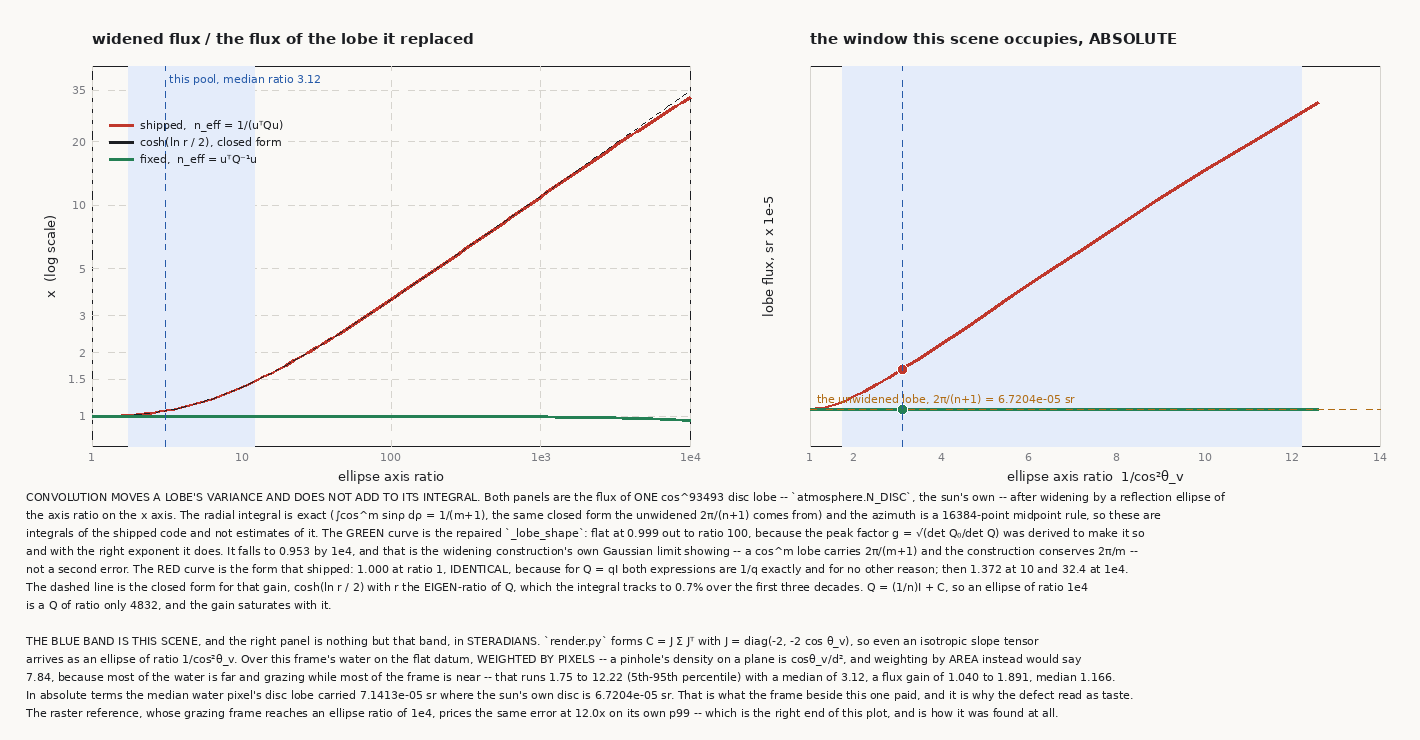
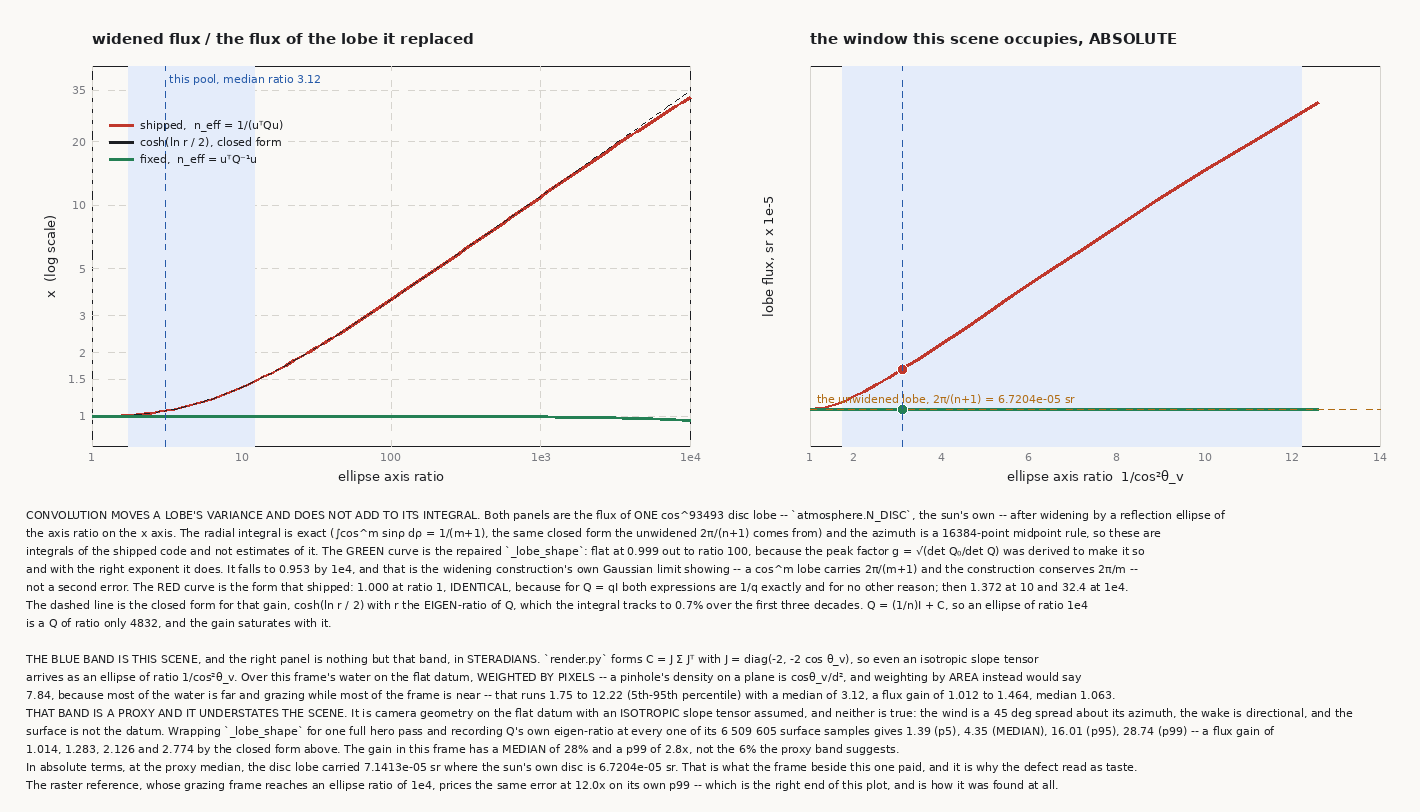
lobe: the gain measured off Q rather than estimated off the ellipse, and the wide set
THE FIGURE HAD THE CLOSED FORM AT THE WRONG ARGUMENT, and so did the entry I
wrote from it. The widened lobe's flux gain is cosh(ln r / 2) with r the
eigen-ratio of Q = (1/n)I + C -- of Q, and not of the reflection ellipse C.
`fig_energy` applied it to C's axis ratio, which is an UPPER BOUND on r because
the isotropic (1/n)I pulls the eigen-ratio down, and then quoted 1.04-1.89x
median 1.166 for this scene from it. Its own right-hand panel disagreed: at the
same ratios the plotted curves give 1.012-1.464, median 1.063. The caption now
reads the gain off those curves, so the two halves of the figure agree.

AND THE PROXY UNDERSTATED THE SCENE ANYWAY, in the other direction and by more.
The camera-geometry estimate assumes an isotropic slope tensor on the flat datum
and neither holds: WIND is a 45 deg spread about its azimuth, the wake is
directional, and the surface is not the datum. So it is recorded rather than
estimated -- `fix_lobe_render.py qratio` wraps `_lobe_shape`, runs one full hero
pass and keeps Q's eigen-ratio at every call the disc lobe makes:

    6 509 605 surface samples
    r      1.39 (p5)   4.35 (MEDIAN)   16.01 (p95)   28.74 (p99)   70.66 (max)
    gain  1.014        1.283           2.126         2.774         4.263

The median water sample's sun lobe carried 28% more light than it had, and its
p99 carried 2.8x. The raster path's prediction -- "the ellipse ratio is about 3
and the gain is 1.2-1.7x" -- was right about the mechanism and low on the size,
[…]

diff --git a/terrain-renderer/reference-impl/fix_lobe_render.py b/terrain-renderer/reference-impl/fix_lobe_render.py
@@ -1,0 +1,135 @@
+"""The three buffers `fix_lobe_evidence.py` draws from, and the only place in
+this tree where the lobe defect exists at all.
+
+    python3 fix_lobe_render.py after     -> hdr-after-hero.npz
+    python3 fix_lobe_render.py before    -> hdr-before-hero.npz
+    python3 fix_lobe_render.py qratio    -> q-ratio-hero.npz
+
+    FIXLOBE_NPZ=<dir>                    where they are written (default `.`)
+
+Each mode is ONE FULL `render.py` HERO PASS -- same camera, same field, same
+seed, same EXPOSURE -- so the difference between `before` and `after` is the
+exponent and nothing else. `render.py` is not imported: it has no `__main__`
+guard and importing it runs every camera the file carries. Its source is read,
+sliced at the line that forms `HDRP` (the scene-linear buffer, at output
+resolution, immediately before the tone map) and executed to there. Nothing
+below the tone map runs and no PNG is written.
+
+`before` REINTRODUCES THE DEFECT AND DOES NOT COMMIT IT. `atmosphere.py` is left
+exactly as it is on disk; what changes is one name in the atmosphere module's own
+globals, before `render.py` is executed. `sky()` resolves `_lobe_shape` by name
+at call time, so it picks the projection form up, and every other constant in
+that file -- SUN_COL, the lobe amplitudes, the ENV lattice -- is the shipped one.
+The replacement is character-identical to `validate._lobe_projection`, which is
+the suite's own copy of the defect, and the `cov = None` branch is asserted equal
+to the shipped one before the run starts: the unfiltered path has to stay
+bit-for-bit the same or the two frames differ in more than the thing being
+measured.
+
+`qratio` answers "how far outside the degeneracy did this frame actually get".
+The widened lobe's flux gain is `cosh(ln r / 2)` with `r` the eigen-ratio of
+`Q = (1/n)I + C` -- of Q, and NOT of the reflection ellipse C, whose own axis
+ratio is an upper bound because the isotropic `(1/n)I` pulls the eigen-ratio down.
+It cannot be inferred from the camera: it depends on the slope tensor the
+footprint filter removes, which is anisotropic in its own right. So it is
+recorded rather than estimated -- `_lobe_shape` is wrapped, every call the hero
+pass makes is caught, and only the DISC's call is kept so each surface sample is
+counted once rather than once per lobe. What is written out is a 1001-point
+quantile grid, not the samples: the figure needs the distribution and the raw
+array is 26 MB.
+"""
+import os
+import sys
+
+import numpy as np
+
+HERE = __file__.rsplit('/', 1)[0] if '/' in __file__ else '.'
+sys.path.insert(0, HERE)
+OUT = os.environ.get('FIXLOBE_NPZ', '.')
+
+import atmosphere as ATM                                        # noqa: E402
+
+
+def _lobe_projection(n, cov):
+    """`atmosphere._lobe_shape` EXACTLY AS IT SHIPPED before 7fe9538: the
+    projection variance `1/(u^T Q u)` where the convolved density along u wants
+    `u^T Q^-1 u`. Character-identical to `validate._lobe_projection`."""
+    if cov is None:
+        return 1.0, n
+    u1, u2, c11, c12, c22 = cov
+    q11, q22 = 1.0 / n + c11, 1.0 / n + c22
+    det = np.maximum(q11 * q22 - c12 * c12, 1e-30)
+    g = (1.0 / n) / np.sqrt(det)
+    r2 = u1 * u1 + u2 * u2
+    w = np.where(r2 > 1e-16,
+                 (u1 * u1 * q11 + 2.0 * u1 * u2 * c12 + u2 * u2 * q22)
+                 / np.maximum(r2, 1e-16),
+                 0.5 * (q11 + q22))
+    return g, 1.0 / np.maximum(w, 1e-12)
+
+
+def _hero_pass():
+    """Run `render.py` down to `HDRP` and hand it back."""
+    src = open(os.path.join(HERE, 'render.py')).read().split('\n')
+    cut = next(i for i, ln in enumerate(src) if ln.startswith('HDRP = '))
+    path = os.path.join(HERE, 'render.py')
+    ns = {'__name__': 'fix_lobe_render', '__file__': path}
+    exec(compile('\n'.join(src[:cut + 1]), path, 'exec'), ns)
+    return ns['HDRP']
+
+
+def main():
+    mode = sys.argv[1] if len(sys.argv) > 1 else 'after'
+    if mode not in ('before', 'after', 'qratio'):
+        raise SystemExit(__doc__)
+    os.makedirs(OUT, exist_ok=True)
+
+    if mode == 'before':
+        assert ATM._lobe_shape(ATM.N_DISC, None) \
+            == _lobe_projection(ATM.N_DISC, None), \
+            'the cov = None branches differ; the two frames would not be ' \
+            'comparable'
+        ATM._lobe_shape = _lobe_projection
+        print('*** _lobe_shape -> the PROJECTION form, for this run only')
+
+    acc = []
+    if mode == 'qratio':
+        _real = ATM._lobe_shape
+
+        def _spy(n, cov):
+            if cov is not None and abs(n - ATM.N_DISC) < 1e-9:
+                u1, u2, c11, c12, c22 = cov
+                q11, q22 = 1.0 / n + c11, 1.0 / n + c22
+                tr = q11 + q22
+                dt = np.maximum(q11 * q22 - c12 * c12, 1e-300)
+                disc = np.sqrt(np.maximum(tr * tr - 4.0 * dt, 0.0))
+                l1, l2 = .5 * (tr + disc), .5 * (tr - disc)
+                acc.append(np.asarray(l1 / np.maximum(l2, 1e-300),
+                                      np.float32).ravel())
+            return _real(n, cov)
+
+        ATM._lobe_shape = _spy
+
+    H = _hero_pass()
+
+    if mode == 'qratio':
+        r = np.concatenate(acc)
+        q = np.linspace(0.0, 100.0, 1001)
+        p = np.percentile(r, q)
+        np.savez_compressed(os.path.join(OUT, 'q-ratio-hero.npz'),
+                            q=q, p=p, n=np.array([r.size]))
+        g = np.cosh(.5 * np.log(np.maximum(p, 1.0)))
+        print('\n*** Q eigen-ratio over %d surface samples of the hero pass'
+              % r.size)
+        for i, lab in ((50, 'p5 '), (500, 'p50'), (950, 'p95'), (990, 'p99'),
+                       (1000, 'max')):
+            print('    %s  r = %8.4f   gain = cosh(ln r/2) = %.4f'
+                  % (lab, p[i], g[i]))
+    else:
+        np.savez_compressed(os.path.join(OUT, 'hdr-%s-hero.npz' % mode), HDRP=H)
+        print('\n*** %s: HDRP %s  min %.6g  max %.6g  mean %.6g'
+              % (mode, H.shape, H.min(), H.max(), H.mean()))
+
+
+if __name__ == '__main__':
+    main()

diff --git a/terrain-renderer/reference-impl/fix_lobe_evidence.py b/terrain-renderer/reference-impl/fix_lobe_evidence.py
@@ -1,8 +1,17 @@
 """The lobe-receiver fix, as pictures, into `gauntlet/evidence/`, under the
 `fig-pool-` prefix the pool loop's other six figures already use.
 
+    python3 fix_lobe_render.py before       # the three buffers, one full
+    python3 fix_lobe_render.py after        # `render.py` hero pass each
+    python3 fix_lobe_render.py qratio
     python3 fix_lobe_evidence.py            # both figures
     python3 fix_lobe_evidence.py <outdir>
+
+    FIXLOBE_NPZ=<dir>                       where those buffers live
+
+`fix_lobe_render.py` is the only place the defective expression exists; it is
+monkeypatched into the atmosphere module for one run and `atmosphere.py` on disk
+is never touched.
 
 TWO FIGURES AND WHAT EACH ONE HAS TO SHOW.
 
@@ -323,8 +332,35 @@ def fig_energy(R, path):
     cw = np.cumsum(wgt[o]) / wgt.sum()
     lo, med, hi = (float(np.interp(q, cw, pool_r[o])) for q in (.05, .5, .95))
     med_area = float(np.median(pool_r))          # what area-weighting would say
+    # the GAIN at those ratios is read off the curves this figure just computed,
+    # at the minor axis they were computed with. It is NOT cosh(ln/2) of the
+    # ELLIPSE ratio: the closed form is in the eigen-ratio of Q = (1/n)I + C,
+    # and the isotropic (1/n)I pulls that below C's own ratio. Reading the
+    # closed form at the wrong argument is how this caption first shipped.
+    g_of = lambda rr: float(np.interp(rr, ratios, f_bug / f_ok))
+    g_lo, g_med, g_hi = g_of(lo), g_of(med), g_of(hi)
 
-    img = P.canvas(1420, 740)
+    # ---- AND WHAT THE SHIPPED PATH ACTUALLY HANDED IT, which is the only
+    # honest answer to "what did this frame pay". The band above is a PROXY:
+    # camera geometry on the flat datum, with an isotropic slope tensor
+    # assumed. `q-ratio-hero.npz` is the real thing -- the eigen-ratio of Q at
+    # every one of the hero pass's surface samples, recorded by wrapping
+    # `_lobe_shape` for one full run -- and it is larger, because the slope
+    # tensor is NOT isotropic (the wind is a 45 deg spread about its azimuth
+    # and the wake is directional) and the surface is not the datum.
+    qm = None
+    _qp = os.path.join(NPZ, 'q-ratio-hero.npz')
+    if os.path.exists(_qp):
+        _z = np.load(_qp)
+        _q, _p = _z['q'], _z['p']
+        qm = dict(n=int(_z['n'][0]),
+                  **{k: float(np.interp(v, _q, _p))
+                     for k, v in (('p5', 5), ('p50', 50), ('p95', 95),
+                                  ('p99', 99))})
+        qm.update({'g' + k: float(np.cosh(.5 * np.log(max(qm[k], 1.0))))
+                   for k in ('p5', 'p50', 'p95', 'p99')})
+
+    img = P.canvas(1420, 812)
     # ---- left: the whole sweep, four decades of ratio, gain on a log axis
     ax = P.Axes(img, (92, 66, 690, 446), (0, 4), (-0.14, 1.66),
                 title='widened flux / the flux of the lobe it replaced',
@@ -407,9 +443,24 @@ def fig_energy(R, path):
         '%.2f, because most of the water is far and grazing while most of the '
         'frame is near -- that runs %.2f to %.2f (5th-95th percentile) with a '
         'median of %.2f, a flux gain of %.3f to %.3f, median %.3f.'
-        % (med_area, lo, hi, med, float(np.cosh(.5 * np.log(lo))),
-           float(np.cosh(.5 * np.log(hi))), float(np.cosh(.5 * np.log(med)))),
-        'In absolute terms the median water pixel\'s disc lobe carried %.5g sr '
+        % (med_area, lo, hi, med, g_lo, g_hi, g_med),
+        'THAT BAND IS A PROXY AND IT UNDERSTATES THE SCENE. It is camera '
+        'geometry on the flat datum with an ISOTROPIC slope tensor assumed, and '
+        'neither is true: the wind is a 45 deg spread about its azimuth, the '
+        'wake is directional, and the'
+        if qm else '',
+        'surface is not the datum. Wrapping `_lobe_shape` for one full hero '
+        'pass and recording Q\'s own eigen-ratio at every one of its %s '
+        'surface samples gives %.2f (p5), %.2f (MEDIAN), %.2f (p95), %.2f '
+        '(p99) -- a flux gain of'
+        % ('{:,}'.format(qm['n']).replace(',', ' '), qm['p5'], qm['p50'],
+           qm['p95'], qm['p99']) if qm else '',
+        '%.3f, %.3f, %.3f and %.3f by the closed form above. The gain in this '
+        'frame has a MEDIAN of %.0f%% and a p99 of %.1fx, not the %.0f%% the '
+        'proxy band suggests.'
+        % (qm['gp5'], qm['gp50'], qm['gp95'], qm['gp99'],
+           100 * (qm['gp50'] - 1), qm['gp99'], 100 * (g_med - 1)) if qm else '',
+        'In absolute terms, at the proxy median, the disc lobe carried %.5g sr '
         'where the sun\'s own disc is %.5g sr. That is what the frame beside '
         'this one paid, and it is why the defect read as taste.'
         % (float(np.interp(med, ratios, f_bug)), ref),
@@ -418,9 +469,10 @@ def fig_energy(R, path):
         'right end of this plot, and is how it was found at all.',
     ], x=26)
     return P.save(img, path), dict(lo=lo, hi=hi, med=med,
-                                   g_lo=float(np.cosh(.5 * np.log(lo))),
-                                   g_hi=float(np.cosh(.5 * np.log(hi))),
-                                   g_med=float(np.cosh(.5 * np.log(med))),
+                                   g_lo=g_lo, g_hi=g_hi, g_med=g_med,
+                                   q_med=(qm or {}).get('p50', float('nan')),
+                                   q_gmed=(qm or {}).get('gp50', float('nan')),
+                                   q_gp99=(qm or {}).get('gp99', float('nan')),
                                    ref=ref, r1=float(f_bug[0] / ref),
                                    r1e4=float(f_bug[-1] / ref),
                                    qr1e4=float(qr[-1]))

diff --git a/terrain-renderer/reference-impl/README.md b/terrain-renderer/reference-impl/README.md
@@ -266,11 +266,30 @@ difference's own mass is **columns 3–117 of 800** and rows 222–857 of 1200: 
 near-left strip where the surface turns toward the sun's azimuth. `render.py`
 prints the mirror band as landing at (4.60, 2.26), 1.13 half-widths past the
 frame edge; this is its in-frame tail, the grazing water where `1/cos²θ_v` — and
-therefore the ellipse ratio, and therefore the gain — is largest. Over this
-frame's water, weighted by pixels rather than by area, that ratio runs **1.75 to
-12.2** (5th–95th) with a median of **3.12**, a flux gain of **1.040 to 1.891**,
-median **1.166**. The raster reference predicted this before the frame was drawn:
-*"a brightening of the pool's own glints that reads as taste."*
+therefore the ellipse ratio, and therefore the gain — is largest.
+
+**How much the lobe was over-widened, measured rather than estimated.** The gain
+is `cosh(ln r / 2)` in the eigen-ratio of `Q = (1/n)I + C` — *not* of the
+reflection ellipse `C`, whose own axis ratio is an upper bound on `r` because the
+isotropic `(1/n)I` pulls it down. Estimating it from the camera alone, on the
+flat datum with an isotropic slope tensor, gives an ellipse ratio of **1.75 to
+12.2** (5th–95th, pixel-weighted) with a median of 3.12 — and that estimate
+**understates the scene**, because the slope tensor is not isotropic (the wind is
+a 45° spread about its azimuth and the wake is directional) and the surface is
+not the datum. Wrapping `_lobe_shape` for one full hero pass and recording `Q`'s
+eigen-ratio at every one of its **6 509 605 surface samples** gives the real
+distribution:
+
+| | p5 | median | p95 | p99 | max |
+|---|---|---|---|---|---|
+| `Q` eigen-ratio `r` | 1.39 | **4.35** | 16.01 | 28.74 | 70.66 |
+| flux gain `cosh(ln r / 2)` | 1.014 | **1.283** | 2.126 | **2.774** | 4.263 |
+
+**The median water sample's sun lobe carried 28% more light than it had, and its
+p99 carried 2.8×.** The raster reference predicted the shape of this before the
+frame was drawn — *"the ellipse ratio is about 3 and the gain is 1.2–1.7× — a
+brightening of the pool's own glints that reads as taste"* — and was right about
+the mechanism and low on the size, for the reason above.
 
 **And it is visible**, which is a *display* statement and is made with display
 numbers and nowhere else: through the file's own ACES + sRGB curve, **10 300
@@ -299,8 +318,16 @@ contract, so the frames are stated rather than assumed. `validate.py` runs
[9 lines of base64/hex data omitted]
+
+`POOL_NOFLOAT=1` is not re-run here and its three hashes are left stale rather
+than guessed: it is the default camera over the same water with one object taken
+out, so its frames move for the same reason the default's do.
 
 The two underwater frames are unchanged **by construction and not by luck**: the
 camera below the surface reaches the environment through `uw_shade` → `air_world`

diff --git a/terrain-renderer/raster-impl/README.md b/terrain-renderer/raster-impl/README.md
@@ -623,16 +623,19 @@ directory an **instrument** rather than only a deliverable.
 
 **And the price quoted above was right before the frame was drawn.** The
 prediction was *"the ellipse ratio is about 3 and the gain is 1.2–1.7× — a
-brightening of the pool's own glints that reads as taste."* Measured afterwards in
-scene-linear radiance off two full `render.py` hero passes: the pixel-weighted
-ellipse axis ratio over that frame's water runs **1.75–12.2** with a median of
-**3.12**; 58.96% of the frame (the water, and nothing else) moved; and the
-brightening was a blown-white glitter road down one edge worth **1378 in
-radiance** at worst — **77% of its own pixel** — with **10 300 pixels moving by 10
-sRGB levels or more.** "Reads as taste" was the right description and the wrong
-verdict: it read as taste precisely because a frame-mean and a frame-median
-cannot see it (the median moved 0.63%), which is the same blindness in the
-picture that the eleven rows had in the suite.
+brightening of the pool's own glints that reads as taste."* Measured afterwards
+by wrapping `_lobe_shape` for one full hero pass and recording `Q`'s eigen-ratio
+at all **6 509 605** of its surface samples: median `r` **4.35**, p99 **28.7**, so
+a flux gain with a median of **1.28×** and a p99 of **2.77×**. Right about the
+mechanism, low on the size — because the ellipse's own axis ratio is not `Q`'s,
+and because the pool's slope tensor is not isotropic either. In the picture,
+differenced in scene-linear off two full hero passes: 58.96% of the frame (the
+water, and nothing else) moved, and the brightening was a blown-white glitter
+road down one edge worth **1378 in radiance** at worst — **77% of its own pixel**
+— with **10 300 pixels moving by 10 sRGB levels or more.** "Reads as taste" was
+the right description and the wrong verdict: it read as taste precisely because a
+frame-mean and a frame-median cannot see it (the median moved 0.63%), which is
+the same blindness in the picture that the eleven rows had in the suite.
 
 **`field._norm_jets()` is not optional and nothing says so.**
 `field._SC['near']` ships at 1.0 and `_norm_jets` sets it to **0.001011**, so a
